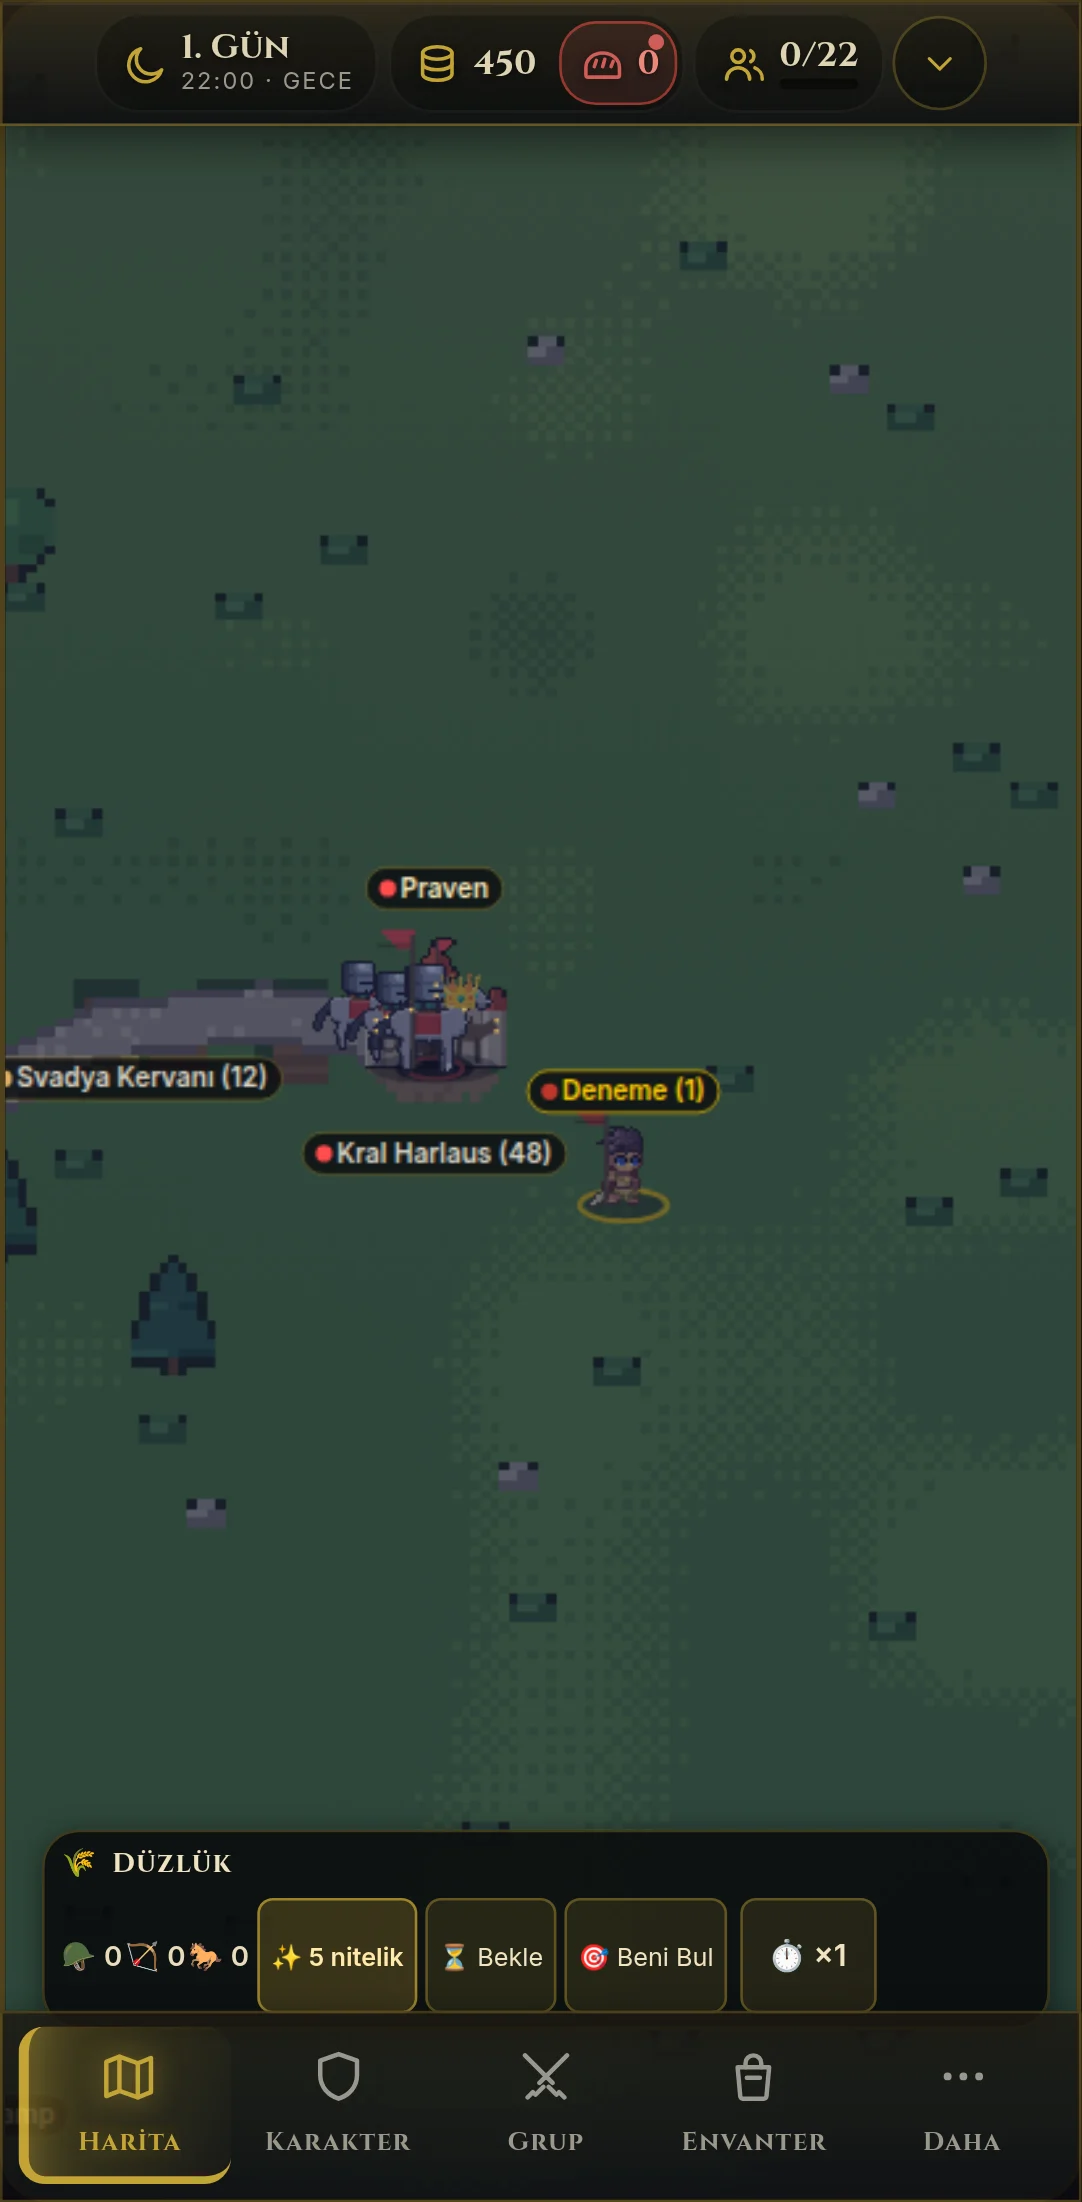
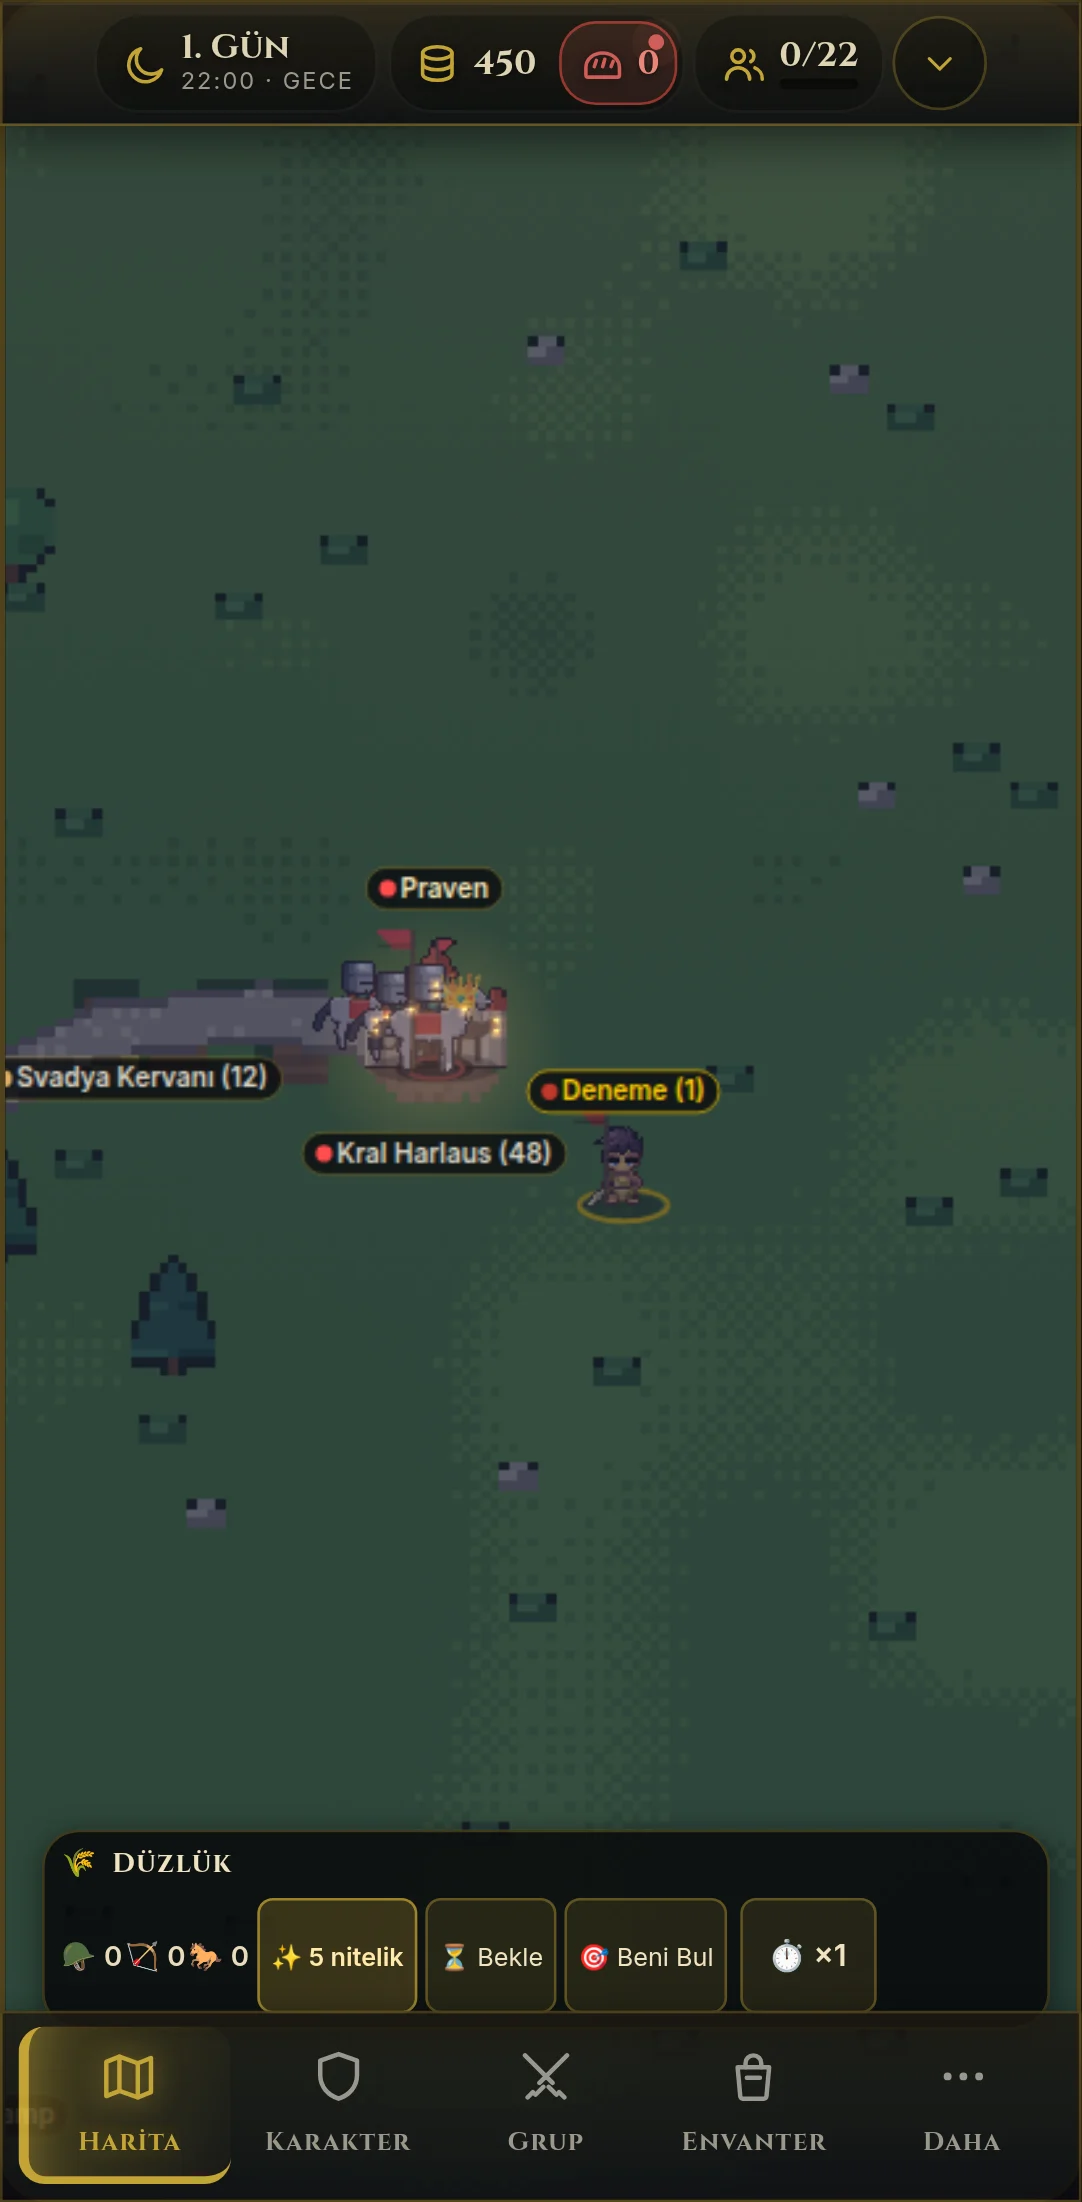
Pixel map: window halos pre-drawn, off-screen settlements culled, phones get every effect
- Each settlement's window glow is baked once into one image and stamped
  at night, instead of a radial gradient per window (+1.1 ms a frame on
  the phone profile); settlements, windows and hearth glow off screen are
  skipped
- The pixel map drops its lite branch: on the Pixel 7 profile a night
  frame with halos, hearth glow and sea glints now costs what a day frame
  costs (0.9 / 0.7 ms at zoom 0.45 / 0.8)
- Round-2 review page: phone shots re-captured with the lights on

Claude-Session: https://claude.ai/code/session_0134HbNLtXbdJwzkckzmJTL6

Changed region(s): [[0.3355, 0.4323, 0.488, 0.525], [0.549, 0.525, 0.5795, 0.5559]]

diff --git a/map-art.js b/map-art.js
@@ -459,7 +459,17 @@ const MapArt = (() => {
             }
         }
         outline(g);
-        return { cv: g.c, win: g.win };
+        // the windows' glow, drawn once here: at night a frame stamps this one image instead of
+        // a radial gradient per window (that was +1.1 ms a frame on the phone profile)
+        const P = 4, glow = document.createElement('canvas');
+        glow.width = g.w + P * 2; glow.height = g.h + P * 2;
+        const gx = glow.getContext('2d');
+        for(const [wx, wy] of g.win) {
+            const cx = wx + 0.5 + P, cy = wy + 0.5 + P, gr = gx.createRadialGradient(cx, cy, 0, cx, cy, 2.6);
+            gr.addColorStop(0, 'rgba(255,190,90,0.9)'); gr.addColorStop(1, 'rgba(255,160,60,0)');
+            gx.fillStyle = gr; gx.fillRect(cx - 3, cy - 3, 6, 6);
+        }
+        return { cv: g.c, win: g.win, glow, pad: P };
     }
     function settlement(loc) {
         const k = loc.id + '|' + loc.faction;
@@ -610,7 +620,7 @@ const MapArt = (() => {
 
     // --- the frame
     function render(G) {
-        const c = G.mapCanvas, ctx = G.ctx, W = c.width, H = c.height, cam = G.camera, z = cam.zoom, lite = G.lite(), now = performance.now();
+        const c = G.mapCanvas, ctx = G.ctx, W = c.width, H = c.height, cam = G.camera, z = cam.zoom, now = performance.now();
         const T0 = terrain();
         Swordsman.load(); Archer.load();          // the map's parties are the battle's soldiers
         ctx.save();
@@ -623,9 +633,10 @@ const MapArt = (() => {
         const px = TEX * z, lvl = px < 0.5 ? 2 : px < 1 ? 1 : 0;
         ctx.imageSmoothingEnabled = false;
         ctx.drawImage(T0.mips[lvl], X0, Y0, N * TEX, N * TEX);
-        // the sea glints: a few pale texel dashes drifting — not on a phone, and not so far out
-        // that a dash is under a pixel (at the continent view the cell loop alone cost 5.8 ms)
-        if(!lite && z >= 0.25) {
+        // the sea glints: a few pale texel dashes drifting, not so far out that a dash is under a
+        // pixel (at the continent view the cell loop alone cost 5.8 ms); on a phone profile they
+        // measured no cost at 0.45-0.8, so a phone gets them too
+        if(z >= 0.25) {
             ctx.fillStyle = 'rgba(200,230,245,0.18)';
             const vx0 = cam.x - W / (2 * z), vy0 = cam.y - H / (2 * z), vx1 = vx0 + W / z, vy1 = vy0 + H / z;
             for(let gx = Math.floor(vx0 / 160); gx <= vx1 / 160; gx++) for(let gy = Math.floor(vy0 / 160); gy <= vy1 / 160; gy++) {
@@ -644,9 +655,11 @@ const MapArt = (() => {
         // against 0.55): at the continent view the towns of a kingdom sat on top of each other
         const ik = G.iconScale(), sk = Math.max(1, 0.35 / z), blocked = [], lit = [], questMarks = typeof Quests !== 'undefined' ? Quests.targets() : {};
         const order = LOCATIONS.slice().sort((a, b) => a.y - b.y);
+        const vx0 = cam.x - W / (2 * z), vy0 = cam.y - H / (2 * z), vx1 = vx0 + W / z, vy1 = vy0 + H / z;
         for(const loc of order) {
             const s = settlement(loc), k = SPX * sk, w = s.cv.width * k, h = s.cv.height * k;
             const x = loc.x - w / 2, y = loc.y + 22 * sk - h;
+            if(x > vx1 || x + w < vx0 || y > vy1 + 40 / z || y + h < vy0 - 40 / z) continue;   // off screen
             ctx.drawImage(s.cv, x, y, w, h);
             blocked.push({ x: loc.x, y: loc.y + 22 * sk, w, h });
             lit.push({ s, x, y, k });
@@ -670,27 +683,24 @@ const MapArt = (() => {
         }
         const glow = G.nightGlow();
         if(glow > 0.02) {
-            // windows: a lit pixel with a soft warm halo round it
+            // windows: a lit pixel with a soft warm halo round it (the halo is one pre-drawn
+            // image per settlement, so a phone gets it too)
             ctx.globalAlpha = Math.min(1, glow * 1.2);
             ctx.fillStyle = '#ffd36a';
             for(const L of lit) for(const [wx, wy] of L.s.win) ctx.fillRect(L.x + wx * L.k, L.y + wy * L.k, L.k, L.k);
-            if(!lite) {
-                ctx.globalCompositeOperation = 'lighter';
-                ctx.globalAlpha = 0.5 * glow;
-                const halo = G.radial(ctx, 16, 'rgba(255,190,90,0.9)', 'rgba(255,160,60,0)');
-                ctx.fillStyle = halo;
-                for(const L of lit) for(const [wx, wy] of L.s.win) {
-                    const hx = L.x + (wx + 0.5) * L.k, hy = L.y + (wy + 0.5) * L.k, r = L.k * 2.2;
-                    ctx.save(); ctx.translate(hx, hy); ctx.scale(r / 16, r / 16); ctx.beginPath(); ctx.arc(0, 0, 16, 0, Math.PI * 2); ctx.fill(); ctx.restore();
-                }
-                ctx.globalCompositeOperation = 'source-over';
-            }
+            ctx.globalCompositeOperation = 'lighter';
+            ctx.globalAlpha = 0.5 * glow;
+            for(const L of lit) ctx.drawImage(L.s.glow, L.x - L.s.pad * L.k, L.y - L.s.pad * L.k, L.s.glow.width * L.k, L.s.glow.height * L.k);
+            ctx.globalCompositeOperation = 'source-over';
             ctx.globalAlpha = 1;
-            if(!lite) {
+            {   // hearth light spilling out of every settlement on screen
                 ctx.globalCompositeOperation = 'lighter';
                 ctx.globalAlpha = 0.22 * glow;
                 ctx.fillStyle = G.radial(ctx, 110, 'rgba(255,170,70,1)', 'rgba(255,140,50,0)');
-                LOCATIONS.forEach(loc => { ctx.save(); ctx.translate(loc.x, loc.y); ctx.beginPath(); ctx.arc(0, 0, 110, 0, Math.PI * 2); ctx.fill(); ctx.restore(); });
+                LOCATIONS.forEach(loc => {
+                    if(loc.x + 110 < vx0 || loc.x - 110 > vx1 || loc.y + 110 < vy0 || loc.y - 110 > vy1) return;
+                    ctx.save(); ctx.translate(loc.x, loc.y); ctx.beginPath(); ctx.arc(0, 0, 110, 0, Math.PI * 2); ctx.fill(); ctx.restore();
+                });
                 ctx.globalAlpha = 1; ctx.globalCompositeOperation = 'source-over';
             }
         }

diff --git a/docs/design/tur-2/index.html b/docs/design/tur-2/index.html
@@ -228,7 +228,7 @@ footer { padding-block: 40px 60px; color: var(--faint); font-size: .85rem; }
   <div class="sec-head">
     <span class="eyebrow">4 · Telefonda</span>
     <h2>Aynı harita, Pixel 7 boyutunda</h2>
-    <p>Telefonda da bütün yenilikler var. Sadece deniz parıltısı ve gece pencerelerinin hâlesi pil için kapalı.</p>
+    <p>Telefonda masaüstündeki her şey var, deniz parıltısı ve gece pencerelerinin ışığı dahil. Pencere ışığı her yerleşim için bir kez hazırlanıyor. Bu yüzden telefonda gece bir karesi gündüzünkü kadar sürüyor.</p>
   </div>
   <div class="phones">
     <div class="pcol view" data-view="phone-mid">

diff --git a/docs/SYSTEMS.md b/docs/SYSTEMS.md
@@ -1024,7 +1024,12 @@ flag that swaps the figure and the label.
   before any save or siege), the flag the current owner's. Sizes: city 40×42, castle 32×40,
   village 28×18. They grow with `max(1, 0.35 / zoom)`, slower than parties (0.55), so a
   kingdom's towns don't overlap at the continent view. Window pixels are recorded at build
-  time and lit after the day tint (`#ffd36a` + an additive halo off lite).
+  time and lit after the day tint: a `#ffd36a` pixel each, plus one pre-drawn halo image per
+  settlement stamped with `lighter`. Only settlements on screen are drawn, lit or glowing. The
+  pixel map has no `lite` branch. On the Pixel 7 profile a night frame with halos, hearth glow
+  and sea glints costs what a day frame costs (0.9 / 0.7 ms at 0.45 / 0.8). The first
+  proposal's per-window radial halo over every settlement cost +1.1 ms, and that is why it was
+  desktop-only there.
 - **Sites** (#58) have their own sprites: ruin, farm, tower, cave, camp, lair, boss keep.
 - **Parties** are the battle's soldiers: `MapArt.partyLook` gives lords, kings and viziers a
   Mounted knight in their kingdom's cloth, bandits a tier-0/1 Swordsman in bandit brown, forest
@@ -1044,8 +1049,8 @@ flag that swaps the figure and the label.
   Bake 350 ms desktop, 430 ms phone, once per world. Two lessons from the measuring:
   - A smoothed `drawImage` of the terrain cost 3.3 ms at any zoom and a nearest one 0.7 ms, so
     the ground is always drawn nearest from the right copy.
-  - The sea-glint cell loop cost 5.8 ms at the continent view, so glints run only from zoom 0.25
-    and never in lite.
+  - The sea-glint cell loop cost 5.8 ms at the continent view, so glints run only from zoom
+    0.25. At 0.45–0.8 they cost nothing measurable, so phones get them too.
 
 ### Battle renderer (1.33.0)
 Not a frame-rate fix — Canvas2D already held 60 fps on an iPhone 14 at 250 v 250. What it buys:
